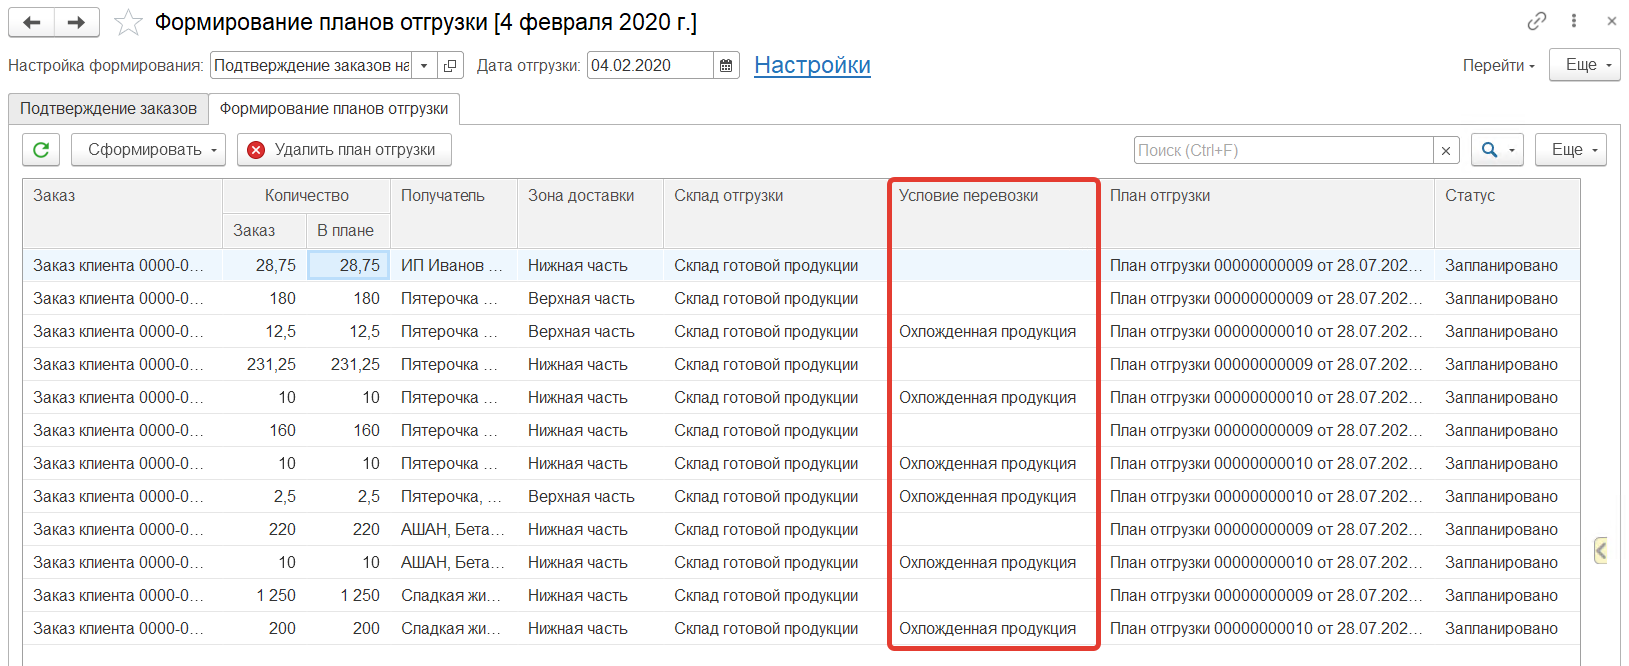
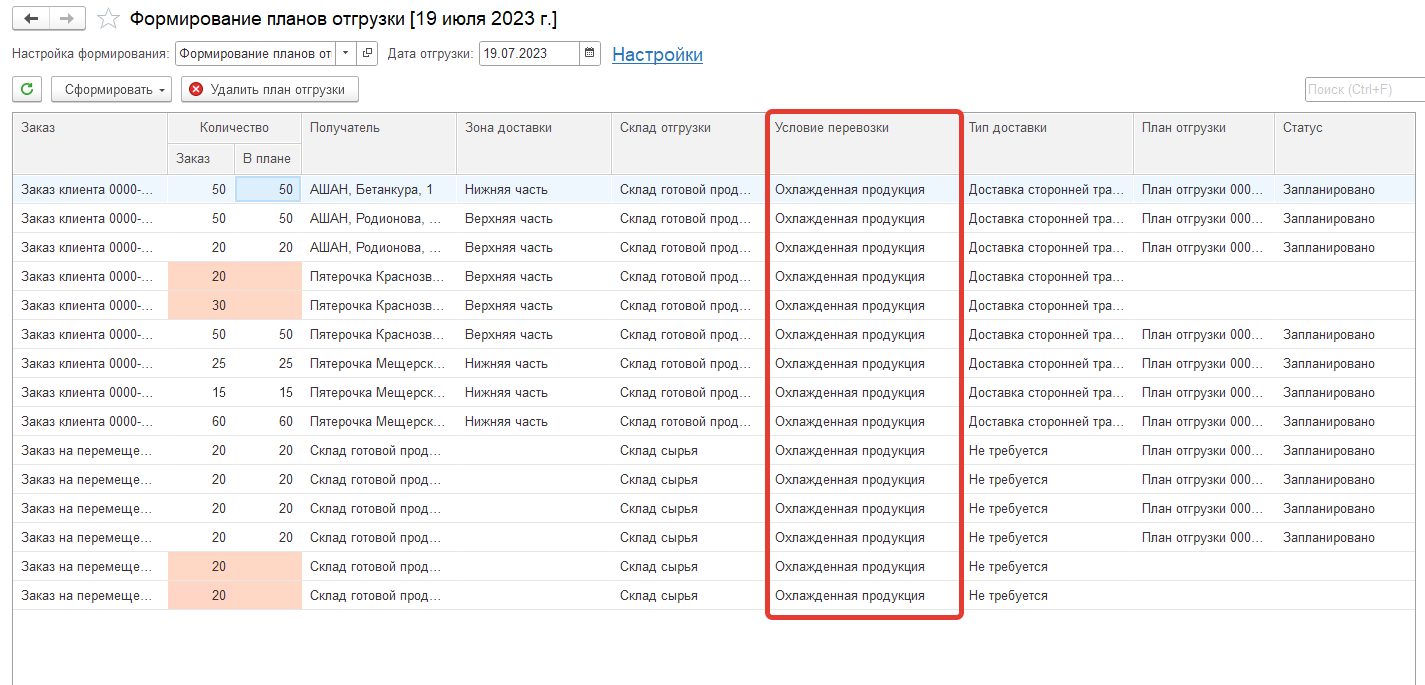
разделение армов

diff --git a/docs/CRM/CustomerService/FormationOfOrders/OrderProcessing/OrderConfirmation.md b/docs/CRM/CustomerService/FormationOfOrders/OrderProcessing/OrderConfirmation.md
@@ -8,11 +8,11 @@
 
 [![23][23]][23]
 
-Если же флаг не будет поставлен, то в системе будет доступен альтернативный АРМ реализующий функции АРМов [**"Утверждение отгрузок"**](ApprovalOfShipments.md) и [**"Подтверждение заказов"**](OrderConfirmation.md) на вкладке **"Подтверждение заказов"** АРМа **"Формирование плана отгрузки"**. АРМ расположен в разделе **"Склад и доставка"** в подсистеме **"Складская логистика"**.
+Если же флаг не будет поставлен, то в системе будет доступен альтернативный АРМ реализующий функции АРМов [**"Утверждение отгрузок"**](ApprovalOfShipments.md) и [**"Подтверждение заказов"**](OrderConfirmation.md) в АРМе **"Подтверждение заказов"**. 
 
 [![24][24]][24]
 
-АРМ **"Подтверждение заказов"** на вкладке **"Подтверждение заказов"** АРМа **"Формирование плана отгрузки"**. АРМ расположен в разделе **"Склад и доставка"** в подсистеме **"Складская логистика"**.
+АРМ расположен в разделе **"Заказы"** в подсистеме **"Обработка заказов клиента"**.
 
 [![1][1]][1]
 
@@ -20,13 +20,13 @@
 
 [![2][2]][2]
 
-Подтверждение заказов происходит по **"Настройкам формирования планов отгрузки"**, которые заполняются в разделе **"Заказы"** в подсистеме **"Сервис"** - **"Настройки исполнения заказов"**.
+Подтверждение заказов происходит по **"Настройки подтверждения заказов"**, которые заполняются в разделе **"Заказы"** в подсистеме **"Сервис"** - **"Настройки исполнения заказов"**.
 
 [![3][3]][3]
 
 [![4][4]][4]
 
-В **"Настройках формирования планов отгрузки"** заполняются:
+В **"Настройках подтверждения заказов"** заполняются:
 
 - Наименование
 - Дата отгрузки - элемент справочника **"Варианты начала периода"**, заполняется для определения по дате отгрузки заказов с которыми работаем
@@ -44,11 +44,11 @@
 - Склады получатели - список складов получателей для отбора заказов на перемещение с которыми работаем
 - Товарные категории - список товарных категорий для определения номенклатур по которым производится корректировка
 
-Рассмотрим подтверждение заказа клиента на 29.05.2020 для контрагента "ООО "АШАН" с использованием этапов. Заполним **"Настройки формирования планов отгрузки"**, для этого создадим состояние **"Подтверждено"** для заказа клиента:
+Рассмотрим подтверждение заказа клиента на 29.05.2020 для контрагента "ООО "АШАН" с использованием этапов. Заполним **"Настройки подтверждения заказов"**, для этого создадим состояние **"Подтверждено"** для заказа клиента:
 
 [![5][5]][5]
 
-В **"Настройках формирования планов отгрузки"** заполняем:
+В **"Настройках подтверждения заказов"** заполняем:
 
 - Наименование - Подтверждение заказов на 29.05.2020
 - Дата отгрузки - 29.05.2020
@@ -63,7 +63,7 @@
 
 [![6][6]][6]
 
-Обрежем заказ на 29.05.2020 для контрагента "ООО "АШАН" по этапам, переходим к обработке **"Формирование плана отгрузки"** и устанавливаем настройки формирования планов отгрузки в обработке - Подтверждение заказов на 29.05.2020
+Обрежем заказ на 29.05.2020 для контрагента "ООО "АШАН" по этапам, переходим к обработке **"Подтверждение заказов"** и устанавливаем настройки подтверждения заказов в обработке - Подтверждение заказов на 29.05.2020
 
 [![7][7]][7]
 
@@ -71,7 +71,7 @@
 
 [![8][8]][8]
 
-В АРМе **"Формирование планов отгрузки"** на вкладке **"Подтверждение заказов"** есть следующие функции:
+В АРМе **"Подтверждение заказов"** есть следующие функции:
 
 1. В контекстном меню, которое вызывается нажатием правой кнопки мыши при выборе заказа в таблице:
 
@@ -95,7 +95,7 @@
 
 [![10][10]][10]
 
-Заказы будут скорректированы согласно подтвержденному количеству, переходим к заказу на 29.05.2020 для контрагента "ООО "АШАН" и убеждаемся, что количество для этапа "Подтвержденный" будет равно подтвержденному в АРМе **"Формирование плана отгрузки"**, причина расхождений - Расхождения при отгрузке, а состояние - Заказ клиента подтвержден.
+Заказы будут скорректированы согласно подтвержденному количеству, переходим к заказу на 29.05.2020 для контрагента "ООО "АШАН" и убеждаемся, что количество для этапа "Подтвержденный" будет равно подтвержденному в АРМе **"Подтверждение заказов"**, причина расхождений - Расхождения при отгрузке, а состояние - Заказ клиента подтвержден.
 
 [![11][11]][11]
 

diff --git a/docs/CRM/CustomerService/FormationOfShipments/PlanningOfShipments/CreationOfPlansForShipment.md b/docs/CRM/CustomerService/FormationOfShipments/PlanningOfShipments/CreationOfPlansForShipment.md
@@ -1,6 +1,6 @@
 # Формирование планов на отгрузку
 
-Для создания планов отгрузки используется вкладка **"Формирование распоряжений"** обработки **"Формирование плана отгрузки"**, которая расположена в разделе **"Склад и доставка"** в подсистеме **"Складская логистика"**.
+Для создания планов отгрузки используется обработка **"Формирование плана отгрузки"**, которая расположена в разделе **"Склад и доставка"** в подсистеме **"Складская логистика"**.
 
 [![1][1]][1]
 
@@ -8,7 +8,7 @@
 
 [![2][2]][2]
 
-После открытия обработки переходим к вкладке *"Формирование распоряжений"* и устанавливаем настройки обработки:
+После открытия обработки устанавливаем настройки обработки:
 
 - Дата отгрузки
 
